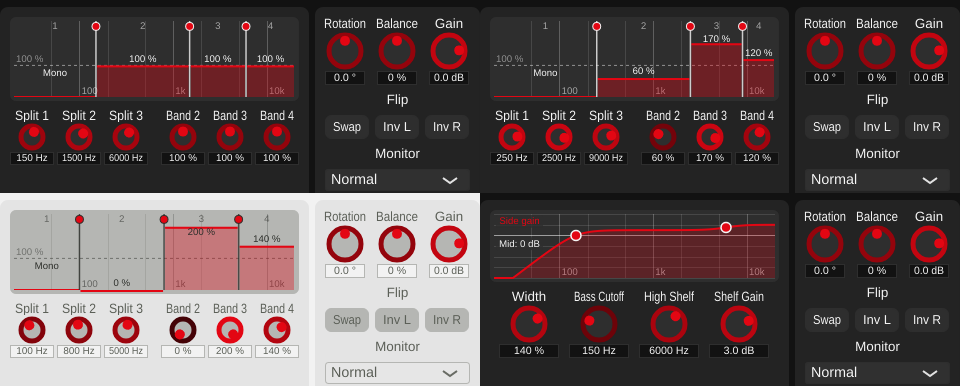
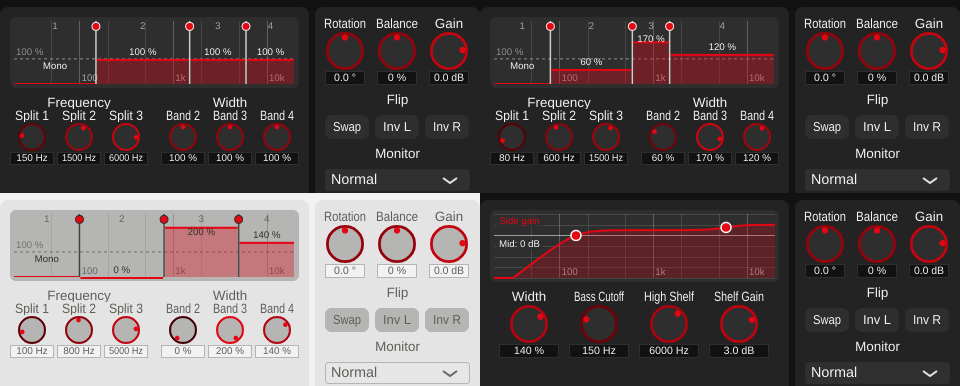
Multiband review fixes: scaled knob handles, free crossovers, captions (v0.1.22)
Knob ring and pointer now scale with the knob's size instead of having
fixed minimums. All three crossovers share one range (40 Hz-18 kHz) and
are limited only by their neighbours, instead of fixed per-crossover
ranges that e.g. kept band 4 above 1 kHz; the DSP safety net respects
the range and stays below Nyquist. Adds Frequency/Width captions.

Also fixes a stack overflow found by pluginval: the crossover knobs'
limit could bounce between crossed limits. It now applies only to the
user's own drags and typed values, with a single clamp.

diff --git a/StereoWidener/playgrounds/MultibandPlayground.cpp b/StereoWidener/playgrounds/MultibandPlayground.cpp
@@ -24,28 +24,44 @@ MultibandPlayground::MultibandPlayground(juce::AudioProcessorValueTreeState& apv
         MB::kMinCrossoverRatio);
     addAndMakeVisible(*m_bandSplit);
 
-    // The display stops a dragged crossover at its neighbours; the knobs do the same.
-    // Wired only after every knob's attachment has synced its initial value, so no
-    // crossover is ever compared against a neighbour that isn't set yet.
-    for (int index : { MB::kFreq1, MB::kFreq2, MB::kFreq3 })
-        m_knobs[(size_t) index]->getSlider().onValueChange = [this, index] { keepCrossoverKnobBetweenNeighbours(index); };
+    // Group captions, so it's clear the splits are frequencies and the band knobs widths.
+    for (auto* caption : { &m_frequencyCaption, &m_widthCaption })
+    {
+        caption->setJustificationType(juce::Justification::centred);
+        addAndMakeVisible(*caption);
+    }
+    m_frequencyCaption.setText("Frequency", juce::dontSendNotification);
+    m_widthCaption.setText("Width", juce::dontSendNotification);
+
+    limitCrossoverKnobs();
 }
 
-void MultibandPlayground::keepCrossoverKnobBetweenNeighbours(int index)
+void MultibandPlayground::limitCrossoverKnobs()
 {
-    using MB = MultibandWidth;
-    auto& slider = m_knobs[(size_t) index]->getSlider();
-    if (index > MB::kFreq1)
+    // The display stops a dragged crossover at its neighbours; the knobs do the same,
+    // but only for the user's own changes: dragging the knob or typing a value. Changes
+    // from the host (automation, presets) are left alone -- writing a parameter back
+    // while the host sets it would fight the automation, and could oscillate when the
+    // host sets two crossovers closer than allowed; the DSP sorts and separates
+    // whatever arrives anyway (MultibandWidth::updateFrequenciesIfNeeded()).
+    for (int index : { MultibandWidth::kFreq1, MultibandWidth::kFreq2, MultibandWidth::kFreq3 })
     {
-        const double lower = m_knobs[(size_t) index - 1]->getSlider().getValue() * MB::kMinCrossoverRatio;
-        if (slider.getValue() < lower)
-            slider.setValue(lower, juce::sendNotificationSync);
-    }
-    if (index < MB::kFreq3)
-    {
-        const double upper = m_knobs[(size_t) index + 1]->getSlider().getValue() / MB::kMinCrossoverRatio;
-        if (slider.getValue() > upper)
-            slider.setValue(upper, juce::sendNotificationSync);
+        auto& slider = m_knobs[(size_t) index]->getSlider();
+        slider.onValueChange = [this, index, &slider]
+        {
+            if (!slider.isMouseButtonDown())
+                return;
+            const double limited = m_bandSplit->limitCrossover(index, (float) slider.getValue());
+            if (!juce::approximatelyEqual(limited, slider.getValue()))
+                slider.setValue(limited, juce::sendNotificationSync);
+        };
+        // Typed values: wraps the attachment's own text parser (set up when the
+        // knob's attachment was created, so this has to come afterwards).
+        auto parse = slider.valueFromTextFunction;
+        slider.valueFromTextFunction = [this, index, parse](const juce::String& text)
+        {
+            return (double) m_bandSplit->limitCrossover(index, (float) parse(text));
+        };
     }
 }
 
@@ -56,17 +72,21 @@ void MultibandPlayground::resized()
         knob->setKnobLayout(scaled(g_compactKnobSize), scaled(g_compactKnobLabelHeight), textBoxWidth);
     m_bandSplit->setScaleFactor(m_scale);
 
-    // Display across the full width on top; below it the knobs in two groups:
-    // splits (left), band widths (right).
+    // Display across the full width on top; below it the captions and knobs in two
+    // groups: splits (Frequency, left), band widths (Width, right).
     auto area = getLocalBounds();
     auto knobRow = area.removeFromBottom(m_knobs.front()->getPreferredHeight());
+    auto captionRow = area.removeFromBottom(scaled(g_compactKnobLabelHeight));
     area.removeFromBottom(scaled(g_smallKnobRowGap));
     m_bandSplit->setBounds(area);
 
     const int gap = scaled(g_compactKnobGap);
     const int groupGap = scaled(g_compactKnobGroupGap);
-    const int rowWidth = 6 * textBoxWidth + 4 * gap + groupGap;
-    knobRow = knobRow.withSizeKeepingCentre(rowWidth, knobRow.getHeight());
+    const int groupWidth = 3 * textBoxWidth + 2 * gap;
+    knobRow = knobRow.withSizeKeepingCentre(2 * groupWidth + groupGap, knobRow.getHeight());
+    captionRow = captionRow.withSizeKeepingCentre(knobRow.getWidth(), captionRow.getHeight());
+    m_frequencyCaption.setBounds(captionRow.removeFromLeft(groupWidth));
+    m_widthCaption.setBounds(captionRow.removeFromRight(groupWidth));
     for (size_t i = 0; i < m_knobs.size(); ++i)
     {
         m_knobs[i]->setBounds(knobRow.removeFromLeft(textBoxWidth));

diff --git a/StereoWidener/algorithms/MultibandWidth.h b/StereoWidener/algorithms/MultibandWidth.h
@@ -55,24 +55,27 @@ public:
     void reset() override;
     void process(juce::AudioBuffer<float>& buffer, const AlgorithmParamValues& values) noexcept override;
 
-    // The crossover ranges overlap a little between neighbours on purpose: process()
-    // sorts and separates the three raw values defensively
-    // (updateFrequenciesIfNeeded()), and the GUI additionally stops each crossover at
-    // its neighbour while dragging, so independent per-parameter ranges are simpler
-    // than keeping three parameter ranges mutually exclusive.
+    // All three crossovers share one range and are limited only by each other: each
+    // stays at least kMinCrossoverRatio above its lower and below its upper neighbour
+    // (the GUI enforces this while dragging, process() on whatever values arrive). So a
+    // band's edges can go anywhere between its neighbours' -- until v0.1.22 each
+    // crossover had its own fixed range (40-400, 200-4000, 1000-18000 Hz), which e.g.
+    // kept band 4 from ever starting below 1 kHz.
     enum ParamIndex { kFreq1 = 0, kFreq2, kFreq3, kWidth2, kWidth3, kWidth4 };
     std::vector<AlgorithmParamSpec> getParamSpecs() const override
     {
         return {
-            AlgorithmParamSpec::logFrequency("multibandFreq1", "Crossover 1", 40.0f, 400.0f, 150.0f),
-            AlgorithmParamSpec::logFrequency("multibandFreq2", "Crossover 2", 200.0f, 4000.0f, 1500.0f),
-            AlgorithmParamSpec::logFrequency("multibandFreq3", "Crossover 3", 1000.0f, 18000.0f, 6000.0f),
+            AlgorithmParamSpec::logFrequency("multibandFreq1", "Crossover 1", kMinCrossoverHz, kMaxCrossoverHz, 150.0f),
+            AlgorithmParamSpec::logFrequency("multibandFreq2", "Crossover 2", kMinCrossoverHz, kMaxCrossoverHz, 1500.0f),
+            AlgorithmParamSpec::logFrequency("multibandFreq3", "Crossover 3", kMinCrossoverHz, kMaxCrossoverHz, 6000.0f),
             AlgorithmParamSpec::width("multibandWidth2", "Band 2 Width"),
             AlgorithmParamSpec::width("multibandWidth3", "Band 3 Width"),
             AlgorithmParamSpec::width("multibandWidth4", "Band 4 Width")
         };
     }
 
+    static constexpr float kMinCrossoverHz = 40.0f;
+    static constexpr float kMaxCrossoverHz = 18000.0f; // process() also stays below 0.45 x sample rate
     // Adjacent crossovers always stay at least this ratio apart (5 %): enforced by
     // process() on whatever values arrive, and by the GUI while dragging.
     static constexpr float kMinCrossoverRatio = 1.05f;

diff --git a/StereoWidener/algorithms/MultibandWidth.cpp b/StereoWidener/algorithms/MultibandWidth.cpp
@@ -12,15 +12,24 @@ namespace
     // Defensive safety net, independent of whatever ordering the GUI enforces on
     // manual drags (the playground stops each crossover at its neighbours, but a DAW
     // can still automate the three crossover parameters directly, bypassing that):
-    // sorts the three raw values and keeps them at least kMinCrossoverRatio apart, so
-    // the filter coefficients built from them are always valid (0 < f1 < f2 < f3) no
-    // matter what values actually arrive.
-    void sortAndSeparate(float& f1, float& f2, float& f3) noexcept
+    // sorts the three raw values, keeps them within [kMinCrossoverHz, maxHz] and at
+    // least kMinCrossoverRatio apart, so the filter coefficients built from them are
+    // always valid (0 < f1 < f2 < f3 < Nyquist) no matter what values actually arrive.
+    void sortAndSeparate(float& f1, float& f2, float& f3, float maxHz) noexcept
     {
+        constexpr float ratio = MultibandWidth::kMinCrossoverRatio;
         std::array<float, 3> f { f1, f2, f3 };
         std::sort(f.begin(), f.end());
-        f[1] = juce::jmax(f[1], f[0] * MultibandWidth::kMinCrossoverRatio);
-        f[2] = juce::jmax(f[2], f[1] * MultibandWidth::kMinCrossoverRatio);
+        for (auto& hz : f)
+            hz = juce::jlimit(MultibandWidth::kMinCrossoverHz, maxHz, hz);
+        f[1] = juce::jmax(f[1], f[0] * ratio); // push apart upwards ...
+        f[2] = juce::jmax(f[2], f[1] * ratio);
+        if (f[2] > maxHz)                      // ... and back down if that went past the top
+        {
+            f[2] = maxHz;
+            f[1] = juce::jmin(f[1], f[2] / ratio);
+            f[0] = juce::jmin(f[0], f[1] / ratio);
+        }
         f1 = f[0]; f2 = f[1]; f3 = f[2];
     }
 }
@@ -45,7 +54,7 @@ void MultibandWidth::updateFrequenciesIfNeeded(float freq1, float freq2, float f
     if (!hasChanged(freq1, lastFreq1) && !hasChanged(freq2, lastFreq2) && !hasChanged(freq3, lastFreq3))
         return;
 
-    sortAndSeparate(freq1, freq2, freq3);
+    sortAndSeparate(freq1, freq2, freq3, juce::jmin(kMaxCrossoverHz, 0.45f * (float) sampleRate));
     midSplitter.setFrequencies(sampleRate, freq1, freq2, freq3);
     sideSplitter.setFrequencies(sampleRate, freq1, freq2, freq3);
     lastFreq1 = freq1; lastFreq2 = freq2; lastFreq3 = freq3;

diff --git a/StereoWidener/PluginLookAndFeel.cpp b/StereoWidener/PluginLookAndFeel.cpp
@@ -109,7 +109,13 @@ void StereoWidenerLookAndFeel::drawRotarySlider(juce::Graphics& g, int x, int y,
                                                 float rotaryStartAngle, float rotaryEndAngle, juce::Slider& slider)
 {
     juce::ignoreUnused(slider);
-    const auto radius = (float) juce::jmin(width / 2, height / 2) - 4.0f;
+    // Everything scales with the knob's own size (the smaller of width/height -- for
+    // a small knob the width is its wider value box). Earlier fixed minimums (10 px
+    // pointer, 5 px ring) made small knobs look mostly handle. The proportions are the
+    // ones the large 110 px knob always had.
+    const auto halfSize = (float) juce::jmin(width, height) * 0.5f;
+    const auto ringThickness = juce::jmax(1.5f, halfSize * 0.14f);
+    const auto radius = halfSize - 0.5f * ringThickness - 1.0f;
     const auto centreX = (float) x + (float) width * 0.5f;
     const auto centreY = (float) y + (float) height * 0.5f;
     const auto rx = centreX - radius;
@@ -126,12 +132,12 @@ void StereoWidenerLookAndFeel::drawRotarySlider(juce::Graphics& g, int x, int y,
     // outline, brightening with sliderPos -- shows how far the knob is turned even
     // before looking at the pointer
     g.setColour(m_knobHandleColour.withMultipliedBrightness(0.3f + 0.7f * sliderPos));
-    g.drawEllipse(rx, ry, rw, rw, (float) juce::jmax((int) ((float) width * 0.07f), 5));
+    g.drawEllipse(rx, ry, rw, rw, ringThickness);
 
     // pointer -- the "handle", kept red in both themes (see file header)
-    const int pointSize = juce::jmax(width / 6, 10);
+    const auto pointSize = juce::jmax(3.0f, radius * 0.36f);
     juce::Path p;
-    p.addEllipse(-pointSize / 2.0f, -0.95f * radius, (float) pointSize, (float) pointSize);
+    p.addEllipse(-0.5f * pointSize, -0.95f * radius, pointSize, pointSize);
     p.applyTransform(juce::AffineTransform::rotation(angle).translated(centreX, centreY));
 
     g.setColour(m_knobHandleColour);

diff --git a/StereoWidener/playgrounds/BandSplitView.cpp b/StereoWidener/playgrounds/BandSplitView.cpp
@@ -57,13 +57,18 @@ BandSplitView::Target BandSplitView::findTarget(juce::Point<float> position) con
     if (!getPlotArea().contains(position))
         return {};
 
-    // Crossover lines first (grab within a few pixels), nearest wins.
+    // Crossover lines first, nearest wins. Grabbed within a few pixels -- but at most
+    // 30 % of the narrower band beside the line, so the middle of even a very narrow
+    // band stays grabbable for its width.
+    const auto edges = getBandEdges();
     Target target;
-    float bestDistance = 5.0f * m_scale;
+    float bestDistance = std::numeric_limits<float>::max();
     for (int i = 0; i < kNumCrossovers; ++i)
     {
-        const float distance = std::abs(position.x - getCrossoverX(i));
-        if (distance <= bestDistance)
+        const float narrowerBand = juce::jmin(edges[(size_t) i + 1] - edges[(size_t) i], edges[(size_t) i + 2] - edges[(size_t) i + 1]);
+        const float grabDistance = juce::jmin(5.0f * m_scale, 0.3f * narrowerBand);
+        const float distance = std::abs(position.x - edges[(size_t) i + 1]);
+        if (distance <= grabDistance && distance < bestDistance)
         {
             target = { Target::Kind::Crossover, i };
             bestDistance = distance;
@@ -72,7 +77,6 @@ BandSplitView::Target BandSplitView::findTarget(juce::Point<float> position) con
     if (target.kind != Target::Kind::None)
         return target;
 
-    const auto edges = getBandEdges();
     for (int band = 1; band < kNumBands; ++band) // band 0 is always mono, nothing to drag
         if (position.x >= edges[(size_t) band] && position.x < edges[(size_t) band + 1])
             return { Target::Kind::Band, band };

diff --git a/StereoWidener/playgrounds/BandSplitView.h b/StereoWidener/playgrounds/BandSplitView.h
@@ -33,6 +33,11 @@ public:
 
     void setScaleFactor(float scale) { m_scale = scale; repaint(); }
 
+    /** hz, limited to at least minCrossoverRatio above crossover index-1 and below
+     *  crossover index+1 (current values). If the neighbours are themselves closer
+     *  than that, the lower limit wins -- one clamp, no back-and-forth. */
+    float limitCrossover(int index, float hz) const;
+
     void paint(juce::Graphics& g) override;
     void mouseMove(const juce::MouseEvent& e) override;
     void mouseExit(const juce::MouseEvent& e) override;
@@ -61,7 +66,6 @@ private:
     std::array<float, kNumBands + 1> getBandEdges() const;
     Target findTarget(juce::Point<float> position) const;
     void setHovered(Target target);
-    float limitCrossover(int index, float hz) const; // keeps crossover index between its neighbours
     juce::ParameterAttachment& attachmentFor(Target target);
     juce::RangedAudioParameter& parameterFor(Target target);
 

diff --git a/StereoWidener/playgrounds/MultibandPlayground.h b/StereoWidener/playgrounds/MultibandPlayground.h
@@ -1,8 +1,9 @@
 /**
  * @file MultibandPlayground.h
  * @brief Playground for MultibandWidth: the band-split element (BandSplitView) above a
- *        row of compact knobs for exact values -- the three splits (crossovers) and
- *        the widths of bands 2-4. No overall Width: each band has its own.
+ *        row of compact knobs for exact values, in two captioned groups -- Frequency
+ *        (the three splits/crossovers) and Width (bands 2-4). No overall Width: each
+ *        band has its own.
  *
  * (c) J. Bitzer, Jade HS, MIT license
  */
@@ -18,8 +19,10 @@ public:
     void resized() override;
 
 private:
-    void keepCrossoverKnobBetweenNeighbours(int index);
+    void limitCrossoverKnobs();
 
     std::unique_ptr<BandSplitView> m_bandSplit;
+    juce::Label m_frequencyCaption;
+    juce::Label m_widthCaption;
     std::vector<std::unique_ptr<PlaygroundKnob>> m_knobs; // in MultibandWidth::ParamIndex order
 };

diff --git a/docs/algorithms/phase6_playground_multiband.md b/docs/algorithms/phase6_playground_multiband.md
@@ -1,4 +1,4 @@
-# Playground 3: Multiband Width, the band-split element (v0.1.21)
+# Playground 3: Multiband Width, the band-split element (v0.1.21, review fixes v0.1.22)
 
 Step 3 of [plan_changeGUI.md](../../plan_changeGUI.md), section 4.1: a display of the
 four bands that is also their control, plus compact knobs for exact values. Multiband
@@ -20,13 +20,15 @@ Width loses its overall Width.
   width.
 - Crossover lines with a grip at the top: drag sideways. A crossover stops at its
   neighbours (at least 5 % apart, `MultibandWidth::kMinCrossoverRatio`, the same rule
-  the DSP applies to automated values); hovering or dragging shows its frequency.
+  the DSP applies to automated values) and at 40 Hz / 18 kHz; hovering or dragging
+  shows its frequency. Next to a narrow band a line's grab zone shrinks (at most 30 %
+  of the band), so even a very narrow band's width stays draggable.
 - Double-click resets what's under the mouse. Drags are host gestures
   (`juce::ParameterAttachment`), so automation recording and undo work.
 
-**Knobs** below, in two groups: Split 1-3 (the crossovers; split k separates band k
-and k+1) and Band 2-4 (the widths), for exact values. The crossover knobs also stop at
-their neighbours.
+**Knobs** below, in two captioned groups: *Frequency* -- Split 1-3 (the crossovers;
+split k separates band k and k+1) -- and *Width* -- Band 2-4, for exact values. The
+crossover knobs also stop at their neighbours when dragged or typed into.
 
 ## No overall Width any more
 
@@ -56,18 +58,55 @@ unchanged. The Python reference (`python/algorithms/multiband_width.py`) keeps i
   no algorithm with more than three parameters uses `KnobsPlayground` any more. The
   grid constants became `g_smallKnob*` (used by Filtered); `g_compactKnob*` is new.
 
+## Review fixes (v0.1.22)
+
+Four comments on v0.1.21:
+
+1. **Knob handle not scaled.** `StereoWidenerLookAndFeel::drawRotarySlider()` had
+   fixed minimums (10 px pointer, 5 px ring) and measured the slider's full width,
+   which for small knobs is the wider value box -- so small knobs were mostly handle.
+   Ring and pointer now scale with the knob's own size, in the proportions the 110 px
+   Width knob always had (it looks as before); all smaller knobs (Multiband, Filtered,
+   Utilities) get proportionally smaller handles.
+2. **Band 4's lower edge was restricted to 1000 Hz**, and 3. **the same was true
+   elsewhere**: each crossover had its own fixed range (40-400, 200-4000,
+   1000-18000 Hz), so band 1's top couldn't pass 400 Hz, band 2's top couldn't go
+   below 200 Hz, band 3's bottom couldn't pass 4 kHz and band 4's bottom couldn't go
+   below 1 kHz. All three now share one range, 40 Hz-18 kHz
+   (`kMinCrossoverHz`/`kMaxCrossoverHz`), and are limited only by their neighbours.
+   The DSP's safety net for automated values now also keeps them inside that range
+   and below 0.45 x the sample rate (checked at 32 kHz with crossovers set above
+   Nyquist: valid output, no assertion -- previously an 18 kHz crossover at 32 kHz
+   would have been above Nyquist).
+4. **Captions** "Frequency" and "Width" above the two knob groups.
+
+Found while verifying: with the shared range, pluginval's parameter fuzzing could set
+two crossovers closer than allowed; the crossover knobs' limit (which wrote the
+clamped value back) then bounced between the lower and upper limit until the stack
+overflowed -- 3 of 4 pluginval runs crashed. The knob limit now applies only to the
+user's own changes (mouse drag, typed values), uses a single clamp that can't
+oscillate (shared with the display: `BandSplitView::limitCrossover()`), and never
+writes back during host automation, which the DSP sorts on its own anyway.
+
 ## Verification
 
 - **Dragging** (synthetic mouse events on the display, throwaway tool): splits move,
-  a split stops at its neighbour (315 Hz = 300 Hz x 1.05), band widths follow vertical
-  drags and clamp at 0 %, band 1 can't be changed, double-click resets:
+  a split stops at its neighbours (315 Hz = 300 Hz x 1.05; 17143 Hz = 18 kHz / 1.05)
+  and at 40 Hz / 18 kHz, split 3 goes below 1 kHz and split 2 above 4 kHz now, band
+  widths follow vertical drags and clamp at 0 % (also for a ~5 px wide band), band 1
+  can't be changed, double-click resets:
   [drag_test.txt](../../python/results/playground_multiband/drag_test.txt).
+- **Typed values** on the crossover knobs are limited by the neighbours:
+  [knob_text_test.txt](../../python/results/playground_multiband/knob_text_test.txt).
+  (The knob *drag* limit depends on a real mouse button and wasn't simulated.)
 - **Sound unchanged at defaults**, see above.
 - **GUI**: offline renders in several states, both themes; Filtered re-checked after
   the axis refactor.
-- **pluginval --strictness-level 10**: 4/4 SUCCESS, zero JUCE assertions (this build
-  also covers the simplified Broadband playground, v0.1.20):
-  [console.txt](../../python/results/playground_multiband/console.txt).
+- **pluginval --strictness-level 10**: v0.1.21 4/4 SUCCESS (this build also covers the
+  simplified Broadband playground, v0.1.20):
+  [console.txt](../../python/results/playground_multiband/console.txt); v0.1.22 6/6
+  SUCCESS after the recursion fix, zero JUCE assertions:
+  [console_review.txt](../../python/results/playground_multiband/console_review.txt).
 
 ## Files
 
@@ -83,4 +122,7 @@ unchanged. The Python reference (`python/algorithms/multiband_width.py`) keeps i
 - `StereoWidener/PluginSettings.h`: knob size constants.
 - `tools/widener_render/main.cpp`: width argument ignored for multiband.
 - `StereoWidener/README.md`, `StereoWidener/CMakeLists.txt` (new sources; version
-  0.1.20 -> 0.1.21).
+  0.1.20 -> 0.1.21 -> 0.1.22).
+- v0.1.22 also: `PluginLookAndFeel.cpp` (knob proportions), `MultibandWidth.h/.cpp`
+  (shared crossover range, safety net), `BandSplitView.h/.cpp` (grab zone, public
+  `limitCrossover()`), `MultibandPlayground.h/.cpp` (captions, user-only knob limit).

diff --git a/StereoWidener/README.md b/StereoWidener/README.md
@@ -90,8 +90,9 @@ cd ../stereo_widening/python && python evaluate_widener_plugin.py
     frequency axis, each band's bar height being its width (dashed line = 100 %): drag
     a band up/down for its width, drag the lines between bands to move the crossovers
     (a crossover stops at its neighbours), double-click to reset. Below it, knobs for
-    exact values: **Split 1-3** (the crossovers, 40-400/200-4000/1000-18000 Hz) and
-    **Band 2-4** (the band widths, 0-200 %, default 100 % -- neutral). There is no
+    exact values: **Frequency** -- Split 1-3 (the crossovers, each anywhere from 40 Hz
+    to 18 kHz as long as it stays between its neighbours) -- and **Width** -- Band 2-4
+    (the band widths, 0-200 %, default 100 % -- neutral). There is no
     overall Width (removed in v0.1.21: it scaled all bands on top of their own widths).
     See [phase5_multiband.md](../docs/algorithms/phase5_multiband.md) for the algorithm
     (including the allpass phase-compensation needed for a flat reconstruction) and

diff --git a/plan2.md b/plan2.md
@@ -488,7 +488,10 @@ line, and was explicitly descoped by the user ("skip pitch-shift").
      [phase6_playground_filtered.md](docs/algorithms/phase6_playground_filtered.md).
    - ✅ GUI playground 3, Multiband Width (v0.1.21): band-split display (bands as bars
      whose height is their width, draggable crossovers, band 1 always mono) plus
-     compact knobs; overall Width removed. See
+     compact knobs; overall Width removed. Review fixes in v0.1.22: knob handles scale
+     with knob size, all crossovers share 40 Hz-18 kHz (limited only by their
+     neighbours), Frequency/Width captions; also fixed a knob-limit recursion that
+     pluginval's fuzzing exposed. See
      [phase6_playground_multiband.md](docs/algorithms/phase6_playground_multiband.md).
 2. Auto gain (calibrated with the level measurements from Phase 1).
 3. Factory presets for both profiles.
